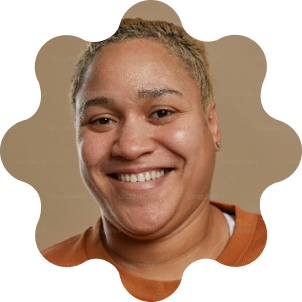
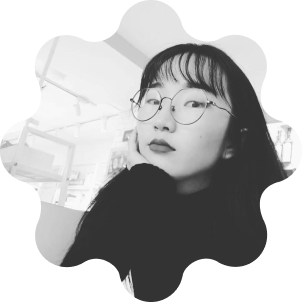
updated testimonals

diff --git a/app/page.js b/app/page.js
@@ -119,6 +119,7 @@ export default function Home() {
                   alt="creator-image"
                   width={361}
                   height={276}
+                  m
                   className="max-w-[180px] sm:max-w-[270px] 2xl:max-w-[361px]"
                 />
                 <Image
@@ -165,9 +166,8 @@ export default function Home() {
                 className="absolute -top-10 sm:-top-20 left-0 lg:-left-5 max-w-[31px] max-h-[25px] lg:max-w-[62px] lg:max-h-[50px]"
               />
               <span className="text-2xl lg:text-3xl font-bold">
-                Жаахан хүүхдээ харангаа гэрээсээ онлайнаар, дуртай
-                бүтээгдэхүүнээ үнэгүй авч, контентоор хуваалцаад тухайн брэндээ
-                дэмжиж, түгээж байгаагаа мэдэх урамтай байдаг.
+                Олон ажил давхар эрхэлдэг ч гэсэн өөрийн завд тааруулан контент
+                бүтээж дуртай брэндтэйгээ хамтрах их амар бас урамтай байдаг.
               </span>
 
               <span className="text-sm sm:text-xl lg:text-2xl">

diff --git a/app/creators/page.js b/app/creators/page.js
@@ -92,14 +92,14 @@ function creators() {
         <Creators />
         <div className="container max-w-7xl px-7 mx-auto pt-16 pb-20">
           <div className="flex flex-col lg:flex-row p-8 gap-10 items-center rounded-3xl border-[#2D262D] border-[1px] bg-[#CA7FFE] text-white">
-            <div className="flex flex-col gap-4">
-              <span className="text-2xl sm:text-3xl">
+            <div className="flex flex-col gap-4 lg:gap-10">
+              <span className="text-2xl sm:text-3xl font-bold">
                 Жаахан хүүхдээ харангаа гэрээсээ онлайнаар, дуртай
                 бүтээгдэхүүнээ үнэгүй авч, контентоор хуваалцаад тухайн брэндээ
                 дэмжиж, түгээж байгаагаа мэдэх урамтай байдаг.
               </span>
               <span className="text-2xl hidden sm:block">
-                Creator program alumni: Tsetgee egch
+                Creator program student: Urtnasan Batsukh{" "}
               </span>
             </div>
             <Image

diff --git a/app/brands/page.js b/app/brands/page.js
@@ -88,7 +88,7 @@ function page() {
           />
         </div>
         <Brands />
-        <div className="container max-w-7xl px-7 mx-auto py-10">
+        {/* <div className="container max-w-7xl px-7 mx-auto py-10">
           <div className="flex flex-col lg:flex-row p-8 gap-10 items-center rounded-3xl border-[#2D262D] border-[1px] bg-[#4D55F5] text-white">
             <div className="flex flex-col gap-4">
               <span className="text-2xl sm:text-3xl">
@@ -128,7 +128,7 @@ function page() {
               </span>
             </div>
           </div>
-        </div>
+        </div> */}
         <div className="max-w-7xl mx-auto px-7 container pt-4 pb-12">
           <div className="rounded-2xl px-6 py-8 sm:p-14 border-[1px] border-[#2D262D] bg-[#F5F4F0] flex flex-col lg:flex-row lg:items-center gap-10 sm:gap-6 lg:gap-0 justify-between">
             <div className="flex flex-col gap-6 lg:gap-4 w-full lg:w-1/2">

diff --git a/app/brands/Brands.js b/app/brands/Brands.js
@@ -90,13 +90,13 @@ function Brands() {
           modules={[Autoplay, Pagination, Navigation]}
           className=""
         >
-          {brands.map((brand, id) => (
+          {brands?.map((brand, id) => (
             <SwiperSlide
               key={id}
               className="rounded-2xl 2xl:max-w-[267px] w-full text-[#2D262D] flex flex-col gap-2"
             >
               <button className="bg-[#CA7FFE] absolute right-3 top-3 rounded-full px-4 py-2">
-                {brand.Category[0]?.Category_id.name}
+                {brand.Category ? brand.Category[0]?.Category_id.name : <></>}
               </button>
               <Image
                 loader={GraphCMSImageLoader}
